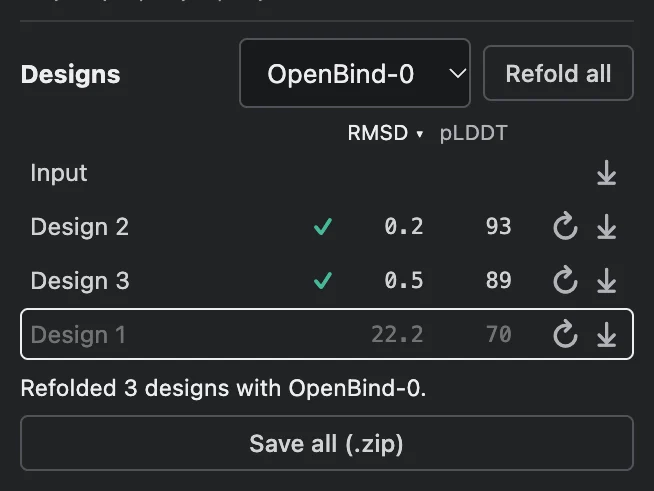
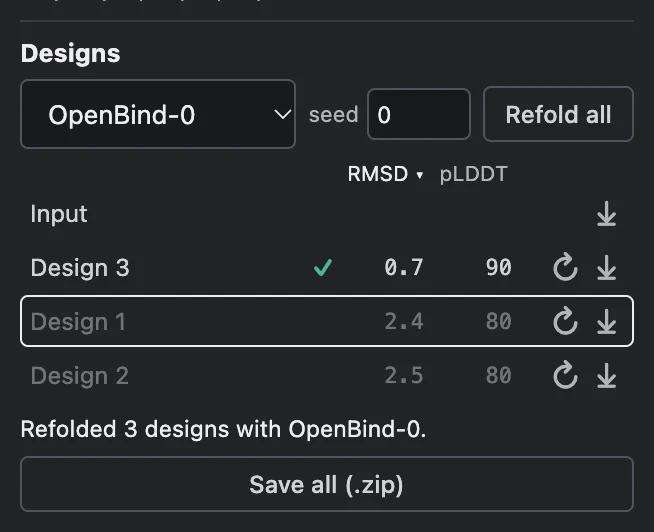
Refold seed: another seed samples the fold again; Refold all skips only refolds with the same model and seed

diff --git a/web/app.js b/web/app.js
@@ -566,6 +566,7 @@ class Rfd4pStudioApp {
       downloadAllBtn: document.getElementById('download-all-btn'),
       refoldBox: document.getElementById('rfd4p-refold'),
       refoldModel: document.getElementById('rfd4p-refold-model'),
+      refoldSeed: document.getElementById('rfd4p-refold-seed'),
       refoldBtn: document.getElementById('rfd4p-refold-btn'),
       refoldResult: document.getElementById('rfd4p-refold-result'),
       refoldTerms: document.getElementById('rfd4p-refold-terms'),
@@ -1289,11 +1290,13 @@ class Rfd4pStudioApp {
     const model = await this._agreeRefoldTerms(this.els.refoldModel?.value ?? 'af3');
     if (!model) return;
     const name = REFOLD_MODELS[model] ?? model;
+    const seed = Math.max(0, Number.parseInt(this.els.refoldSeed?.value ?? '0', 10) || 0);
     const all = (this.runs ?? []).flatMap((r) => r.designs);
-    const todo = (sids ?? all.filter((sid) => !this.generatedViews.get(sid)?.refolds?.some((r) => r.model === model)))
+    // Refold all skips designs already refolded with this model and this seed: a new seed samples them again.
+    const todo = (sids ?? all.filter((sid) => !this.generatedViews.get(sid)?.refolds?.some((r) => r.model === model && (r.seed ?? 0) === seed)))
       .filter((sid) => this.generatedViews.get(sid)?.pdb);
     if (!todo.length) {
-      this._setRefoldStatus(`Every design is refolded with ${name}.`);
+      this._setRefoldStatus(`Every design is refolded with ${name}, seed ${seed}.`);
       return;
     }
     const abort = new AbortController();
@@ -1326,7 +1329,7 @@ class Rfd4pStudioApp {
         this._renderDesigns();
         const tag = todo.length > 1 ? ` (${k + 1} of ${todo.length})` : '';
         this._setRefoldStatus(`Refolding Design ${view.designIndex} with ${name}${tag}…`);
-        const ok = await this._refoldOne(sid, model, abort, lf,
+        const ok = await this._refoldOne(sid, model, seed, abort, lf,
           (text) => this._setRefoldStatus(`Design ${view.designIndex}${tag}: ${text}`));
         if (ok) done += 1;
         else if (!abort.signal.aborted) failed += 1;
@@ -1348,12 +1351,12 @@ class Rfd4pStudioApp {
   }
 
   /** One design's refold: scored, kept for "Save all", and drawn over the design. False if it failed. */
-  async _refoldOne(sid, model, abort, lf, status) {
+  async _refoldOne(sid, model, seed, abort, lf, status) {
     const view = this.generatedViews.get(sid);
     const name = REFOLD_MODELS[model] ?? model;
     try {
       const result = await lf.refoldDesign({
-        pdb: view.pdb, chain: view.designedChains, model, device: this.gpuDevice, seed: 0, signal: abort.signal,
+        pdb: view.pdb, chain: view.designedChains, model, device: this.gpuDevice, seed, signal: abort.signal,
         partial: view.partialTemplates ?? [],
         status: (text) => status(text.replace(/^refolding with \S+( · )?/, '') || `refolding with ${name}`),
       });
@@ -1361,7 +1364,7 @@ class Rfd4pStudioApp {
       view.pass = passes(view.metrics, view.kind);
       view.refoldText = describeRefold(model, result, view.designedChains, view.partialTemplates ?? []);
       (view.refolds ??= []).push({
-        model, pdb: result.refold, cif: pdbToCif(result.refold), rmsd: result.rmsd, confidence: result.confidence,
+        model, seed, pdb: result.refold, cif: pdbToCif(result.refold), rmsd: result.rmsd, confidence: result.confidence,
         templated: result.templated, partial: result.partial, text: view.refoldText, metrics: view.metrics, pass: view.pass,
       });
       view.refoldError = false;

diff --git a/index.html b/index.html
@@ -10,7 +10,7 @@
     <!-- This site serves the Studio bundle itself; its offline cache would pin stale assets on Pages. -->
     <meta name="atomworks-studio-service-worker" content="off" />
     <script src="https://cdnjs.cloudflare.com/ajax/libs/jszip/3.10.1/jszip.min.js"></script>
-    <link rel="stylesheet" href="./web/styles.css?v=8c661a7b57" />
+    <link rel="stylesheet" href="./web/styles.css?v=f42ef4b4a9" />
     <!-- app.js first: its import of studio-api.js installs the /api/* fetch interceptor the Studio bundle boots against. -->
     <!-- module-versions:start (tools/stamp-modules.mjs) -->
     <script type="importmap">
@@ -38,14 +38,14 @@
           "./shared/rfd4p/presets.js": "./shared/rfd4p/presets.js?v=8db26644f7",
           "./shared/rfd4p/safetensors.js": "./shared/rfd4p/safetensors.js?v=816ee6d627",
           "./shared/rfd4p/vendor/fzstd.js": "./shared/rfd4p/vendor/fzstd.js?v=e6cdba40d4",
-          "./web/app.js": "./web/app.js?v=55d6e86c4b",
+          "./web/app.js": "./web/app.js?v=fbb9b892c5",
           "./web/design-panel.js": "./web/design-panel.js?v=59813db912",
           "./web/design-spec.js": "./web/design-spec.js?v=693bf27a92",
           "./web/guide-dialog.js": "./web/guide-dialog.js?v=df4c3ca412",
           "./web/ligand-ccd.js": "./web/ligand-ccd.js?v=b937ddbebf",
           "./web/localfold.js": "./web/localfold.js?v=8b16694f7b",
           "./web/refold-view.js": "./web/refold-view.js?v=2319c8a960",
-          "./web/results-zip.js": "./web/results-zip.js?v=68807b596f",
+          "./web/results-zip.js": "./web/results-zip.js?v=6336da7de0",
           "./web/studio-api.js": "./web/studio-api.js?v=0c131a07ce",
           "./web/vendor/py2dmol-ss.js": "./web/vendor/py2dmol-ss.js?v=f2ede21309",
           "./webgpu/index.js": "./webgpu/index.js?v=2aaa227e72",
@@ -59,7 +59,7 @@
       }
     </script>
     <!-- module-versions:end -->
-    <script type="module" src="./web/app.js?v=55d6e86c4b"></script>
+    <script type="module" src="./web/app.js?v=fbb9b892c5"></script>
     <script type="module" crossorigin src="./assets/index-D56mv6bn.js"></script>
     <link rel="stylesheet" crossorigin href="./assets/index-CTn3vkIg.css">
   </head>
@@ -187,6 +187,9 @@
                             <option value="af3" selected>AlphaFold 3</option>
                             <option value="openbind0">OpenBind-0</option>
                         </select>
+                        <label class="rfd4p-refold-seed" title="The refold model's seed: another seed, another sample of the fold">seed
+                            <input id="rfd4p-refold-seed" type="number" min="0" max="4294967295" step="1" value="0" aria-label="Refold seed" />
+                        </label>
                         <button id="rfd4p-refold-btn" class="secondary compact" type="button"
                                 title="Fold each design's sequence again with a structure prediction model and score it">Refold all</button>
                     </div>

diff --git a/web/results-zip.js b/web/results-zip.js
@@ -34,6 +34,7 @@ function refoldSummary(r) {
   return {
     model: r.model,
     model_name: REFOLD_MODELS[r.model] ?? r.model,
+    seed: r.seed ?? 0,
     rmsd_designed_chain: round(r.rmsd, 3),
     rmsd_on_target: round(r.metrics?.placedRmsd, 3),
     plddt: round(c.meanPlddt, 2),
@@ -104,7 +105,7 @@ export function resultsFiles({ input, designs, generatedAt = new Date().toISOStr
     if (refolds.length === 0) rows.push(base);
     for (const r of refolds) {
       rows.push({
-        ...base, refold_model: r.model, rmsd_designed_chain: r.rmsd_designed_chain, rmsd_on_target: r.rmsd_on_target,
+        ...base, refold_model: r.model, refold_seed: r.seed, rmsd_designed_chain: r.rmsd_designed_chain, rmsd_on_target: r.rmsd_on_target,
         plddt: r.plddt, ptm: r.ptm, iptm: r.iptm, designed_chain_ptm: r.designed_chain_ptm, min_ipae: r.min_ipae,
         passes: r.passes, templated_chains: r.templated_chains,
         partial_templates: r.partial_templates.map((p) => `${p.chain}:${p.residues}`),
@@ -112,7 +113,7 @@ export function resultsFiles({ input, designs, generatedAt = new Date().toISOStr
     }
   }
   files.push({ name: 'summary.json', text: `${JSON.stringify(summary, null, 2)}\n` });
-  const columns = ['design', 'seed', 'steps_run', 'designed_chains', 'sequences', 'refold_model', 'rmsd_designed_chain',
+  const columns = ['design', 'seed', 'steps_run', 'designed_chains', 'sequences', 'refold_model', 'refold_seed', 'rmsd_designed_chain',
     'rmsd_on_target', 'plddt', 'ptm', 'iptm', 'designed_chain_ptm', 'min_ipae', 'passes', 'templated_chains',
     'partial_templates'];
   files.push({

diff --git a/web/styles.css b/web/styles.css
@@ -1018,10 +1018,13 @@ body.rfd4p-building .rfd4p-piece-pop { visibility: hidden; }
 .rfd4p-starting #design-results, .rfd4p-starting #generation-status { display: none; }
 
 /* The Designs table (web/app.js _renderDesigns): one row a design, its refold's numbers, sortable by column. */
-.rfd4p-results-head { display: flex; align-items: center; justify-content: space-between; gap: 8px; min-width: 0; }
+/* "Designs", then the refold controls on a line of their own: model, seed, Refold all. */
+.rfd4p-results-head { display: flex; flex-wrap: wrap; align-items: center; gap: 6px 8px; min-width: 0; }
 .rfd4p-results-head > strong { font-size: 12.5px; }
-.rfd4p-results-head .rfd4p-refold-row { flex: 0 1 auto; }
-.rfd4p-results-head .rfd4p-refold-model { width: 116px; flex: none; }
+.rfd4p-results-head .rfd4p-refold-row { flex: 1 1 100%; }
+.rfd4p-results-head .rfd4p-refold-model { flex: 1 1 auto; min-width: 0; }
+.rfd4p-refold-seed { display: flex; align-items: center; gap: 4px; margin: 0; font-size: 11px; color: var(--text-muted, #b1b3b9); }
+.rfd4p-refold-seed input { width: 52px; height: 26px; padding: 2px 4px; font-size: 11.5px; }
 .rfd4p-designs { display: grid; gap: 1px; font-size: 11.5px; }
 .rfd4p-design-head,
 .rfd4p-design-row { display: grid; align-items: center; column-gap: 4px; padding: 0 4px; }

diff --git a/help/index.html b/help/index.html
@@ -167,7 +167,8 @@
     <code>Run 1 · seeds …</code>; a different input starts the list over.</p>
   <ul>
     <li><span class="ui">Refold all</span> folds each design's sequence again with AlphaFold 3 or OpenBind-0 and scores how well it comes
-      back. <span class="ui">↻</span> refolds one design; <span class="ui">⤓</span> downloads it.</li>
+      back. <span class="ui">↻</span> refolds one design; <span class="ui">⤓</span> downloads it. Change the
+      <span class="ui">seed</span> to sample another fold: Refold all then redoes every design with the new seed.</li>
     <li>Click a column head to sort by it. By default, designs that pass come first, then the rest by the job's main number.</li>
     <li><span class="ui">Save all (.zip)</span>: the input, every design with its trajectory, every refold, and the table as
       <code>summary.csv</code>.</li>

diff --git a/test/results-zip.test.js b/test/results-zip.test.js
@@ -38,7 +38,7 @@ test('resultsFiles packages input, designs, trajectories, every refold and a sum
   const csv = files.find((f) => f.name === 'summary.csv').text.trim().split('\n');
   assert.equal(csv.length, 1 + 3 + 1);
   // no metrics on these refolds: RMSD on target, designed-chain pTM, min iPAE and the verdict are left empty
-  assert.ok(csv[1].startsWith('1,7,50,B,A:MK B:G,af3,0.5,,80.12,0.8,0.61,,,,A,H:109'));
+  assert.ok(csv[1].startsWith('1,7,50,B,A:MK B:G,af3,0,0.5,,80.12,0.8,0.61,,,,A,H:109'), 'refold seed 0 when none was given');
   assert.ok(csv[0].includes('rmsd_on_target') && csv[0].includes('min_ipae') && csv[0].includes('passes'));
   assert.match(files.find((f) => f.name === 'README.txt').text, /WEIGHTS_TERMS_OF_USE/);
   assert.ok(!names.some((n) => n.endsWith('.pdb')));

diff --git a/web/page/card.html b/web/page/card.html
@@ -121,6 +121,9 @@
                             <option value="af3" selected>AlphaFold 3</option>
                             <option value="openbind0">OpenBind-0</option>
                         </select>
+                        <label class="rfd4p-refold-seed" title="The refold model's seed: another seed, another sample of the fold">seed
+                            <input id="rfd4p-refold-seed" type="number" min="0" max="4294967295" step="1" value="0" aria-label="Refold seed" />
+                        </label>
                         <button id="rfd4p-refold-btn" class="secondary compact" type="button"
                                 title="Fold each design's sequence again with a structure prediction model and score it">Refold all</button>
                     </div>

diff --git a/AGENTS.md b/AGENTS.md
@@ -24,7 +24,7 @@ Operational guide for coding agents working in `rfd4p` (WebGPU implementation of
    - `web/design-spec.js` (pure: task, chain roles, lengths and contig read from a document's conditions; tested in `test/design-spec.test.js`) and `web/design-panel.js` (start screen, Design panel, guided set-ups, simple/advanced switch). The panel lists each chain piece by piece in contig order (`designSpec(...).chains[].pieces`): `kept` (with a keep mode from `KEEP_MODES`: all, sequence, backbone, side chains, shape only; `anywhere` when unindexed; `source` when a set-up renumbered it), `designed` (in place) and `new` (a length range). Chains are grouped by where their coordinates come from (`_sourceGroups`: "PDB 1QJG", "PDB 5O45 chain A", "Nanobody (VHH) example"), one muted caption per source; clicking a caption opens the + pdb form to replace that source's chains; chains are listed in the job's order (the sequence bar's, which is the order they were added), chains made here (+ seq, + lig) uncaptioned in place. Each piece is a sub-card in its chain (chain letter on the left; the chain's × there once it has more than one item), residues (or a new piece's length) on the left and its state on the right ("A17–131 · fixed · 3 hotspots", "H99–109 · designed", "50–120 · new"), its own × to remove it; a "+" between sub-cards (not next to new residues) inserts 5–10 new residues there. Every option in the popups is fixed or free (free: the model decides; the internal values stay 'designed' and 'anywhere'), and every list ends with "free", Shape, Exposure, Interaction and Fold included; a ligand's pose is its Structure too. A residue popup (a sub-card's, or residues picked in the viewer or the sequence bar) shows, in front, its residue range (a sub-card's), Structure (fixed, rigid, free) with the Atoms it holds (all, backbone, side chains, or named: "CG, OD1"), Sequence (fixed, free) and Position in chain (fixed, free: an unindexed residue), with Structure and Sequence both free Length in Position's place, and a sub-card's Hotspots, the rest under More (`_moreFold`: Shape, Exposure, Interaction, and a sub-card's Keep only); there are no one-click buttons (they set four things at once and could not say "structure fixed, sequence free"). A sub-card's click also selects its residues in Studio while its popup is open (`_selectFromCard`, not the viewer's popup). A sub-card's Residues take one range or several ("1–40, 60–115"); once narrowed, Rest says what happens to the piece's residues outside them (removed, the default; free; unchanged, for changing part of a piece), the gaps between ranges are free, and Between gives them a length range, turning each into new residues (so a fetched chain is cut to a domain, or to two regions with a variable linker, in one popup); a Length other than the residue count turns them into new residues (`/segments/replace`), and the document remembers the residues they replaced (`segmentOrigins`, this page only; `segmentOrigin`, `restoreSegment`, `/segments/restore`; `test/segment-restore.test.js`): the new-residues popup then shows "was 7" beside Length and a Structure and Sequence, and the old count, or a fixed or rigid Structure or a fixed Sequence, brings them back in place with their coordinates and conditions, in one Undo; with partial diffusion ticked, its warning about new residues offers the same for all of them ("Back to the residues they replaced"), since partial diffusion starts from coordinates. A piece of a loaded chain has a crop bar under its Residues (`_cropBar`): the chain as it was loaded (`chainSources`, kept by a plain structure's `StudioDoc` and carried by `combine` and a chain rename; `sourceResidues`), the piece's ranges on it, the chain's other residues muted, a handle at each end; dragging in crops (Rest), dragging out brings residues back, up to the neighbouring piece and never past new residues (`restoreFromSource`, `/residues/restore`: as loaded, then given the popup's settings, those in gaps free). It only edits the Residues field, so typing a range past the piece does the same. As the ranges change (dragged or typed), the structure previews them (`_previewCut`): residues to be cut nearly vanish (`setHighlight('cut', …)`), those to be freed fade as free ones do, and only the residues kept stay selected; closing the popup clears it. Opening a sub-card's popup also brings its residues to the middle of the view, the zoom kept (`centerOn`, fork 12c2b78). During a run and on a finished design, the held coordinates of a motif are drawn as a grey reference (`buildMotifOverlayAtoms`, `motifSideChainAtoms`): residues placed anywhere always, residues held in place only when they are a quarter of their chain or less (`isSmallMotif`: 1QJG's three, not a kept domain extended by new residues, which would only be drawn twice). Residues the model rebuilds (no atom held, not rigid) are faded in the input structure (`setHighlight('free', …, { transparency })`, fork f7a02ee), except with partial diffusion ticked, where they are its starting point. Hotspots (the chain's, from any of its pieces; a residue may name its atoms, "A56(CG,OH)", `parseResidueList`) and, under More, Keep only (the motif set-up, `/segments/scaffold`; the residues are kept in the order typed, "A38, A14, A99" reorders the motif and renumbers the chain as AtomWorks does, `_orderMotif`, each kept residue keeping its source ("A38", `annotation_src-component_1_atom`, display only: the pipeline rewrites it) so the card still names it by the entry; the kept residues take the popup's properties, so trimming an antibody chain and making it "rigid" is one popup). "Rigid" is one rigid group per source structure (`/internal-coords` `group_id`, `_rigidGroup(chain)`: chains from the same entry share a body), so an antibody's heavy and light frameworks keep their pairing and move as one, as upstream's current antibody example (Studio 0.0.6, MZB1/adalimumab Fv) and the model repo's VHH inputs are set (the Oct 19 example the demo Space ships had them as two bodies, since replaced), a framework split by CDRs moves as one, and chains from different entries move apart, and its saved targets are cleared (`/internal-coords/clear-targets`): the pipeline centres the body and turns it at random when the job is built (`materializeInternalCoords`), as AtomWorks does and the bundled examples are saved. A residue fixed "anywhere" with only some atoms held keeps only those atoms' coordinates, held atoms first in the residue (`/coordinates/clear`; a token is read from its first atom), as an enzyme benchmark's catalytic tips are given. Residues can be brought back from their source entry next to their neighbours (`/residues/insert`, `insertResiduesFrom`: one Undo, peptide and new-residue bonds rebuilt, an ordered motif's chain renumbered; `test/residue-insert.test.js`); nothing in the card uses it yet (a residue strip did, and was taken out for now). The chain letter opens the chain's popup: its name (`/chains`), its place in the job (`/chains/order`), which the model reads (chain and molecule ids, noise draws), and a fold for it (CATH, `cath_label`, `_foldField`: named folds such as ferredoxin-like 3.30.70, Rossmann-like 3.40.50, helix bundle 1.10, or any code; a new chain's is set on its new residues, which each take it; also in the new-residues popup, where a new chain is laid out). Superposition (`superimposeCoords3D`) is a rotation, never a reflection (`test/handedness.test.js`): it used to mirror whenever its eigenvectors came out left-handed, and a design with nothing held in place, aligned onto its first (noise) frame, was then shown as its mirror image, every helix left-handed, about half the time; the model's own estimate was right-handed throughout. A residue placed anywhere is read against all its atoms (`heldAtomsOf`, `allHeavyNames`), since only its held atoms keep coordinates, so its row names them ("A250 CG, OD1 fixed · position free"); a glycine joins a named-atoms or side-chain run it sits in, and an interaction is asked of each residue's side chain, or its CA when it has none. Under More, residues can also be asked a Shape (secondary structure: helix, strand, loop), an Exposure (RASA: buried, intermediate, exposed) and an Interaction their side chains (or the atoms named) should make (H-bond donor/acceptor, salt bridge, π-stacking, π-cation, hydrophobic, metal-coordinating) (`_extraFields`); new residues take Shape and Exposure. These were Advanced-editor only; pieces split where they differ and rows name them ("A20–30 designed · helix"). Residues selected in the viewer or the sequence bar open a shorter popup for the selection (`_renderPop`): Structure and Sequence ("mixed" where the selected pieces differ, left as each piece has it), Length for one free stretch, Hotspot and Include checkboxes (unticked, the selection is taken out of the job on Apply) and a ligand's Structure, with Atoms, Position, Shape, Exposure and Interaction under More (a pick shows little at first), so fixed regions are grown, shrunk, freed or cut from the structure itself (a motif by hand: pick the residues around it, Structure and Sequence free, a Length); several pieces change in one edit (`_applyPieces`), one Undo. Ligands: Structure fixed or free, swap. New residues: Length, Shape, Exposure and the chain's Fold. More folds only four rows or more; fewer are shown as they are (`_moreFold`). Popups close with the × in their title (top right; a viewer pick's also lets go of the selection), Escape or a click outside, and move by their title bar (`_movable`): once moved, every popup opens where the last was left, kept on screen, until a reload (`popSpot`); Apply sits at the bottom, always in sight. A "+" sits between any two pieces and at both ends, new residues included, so a free chain is built as blocks of different lengths and shapes (20 helix · 6 loop · 20 strand). New residues inserted inside a chain do not renumber it: with no numbering gap the placeholder takes the residue before's number plus an insertion code (`insertSegment`, "40A"), and `realizeExpandableSegments` numbers past it, so the batch and the design are numbered exactly as the old renumber-the-rest rule made them (`test/insert-numbering.test.js`). A design therefore numbers residues after an insertion further along than the input; hotspots on designs are matched through each sample's batch atoms for that reason. A plain structure (PDB ID, optionally with the chains to keep, "1J79 A C E"; a file; "+ pdb") opens with everything fixed, without buffer ions (NA, CL, on top of AtomWorks' additive list) and with its ligands' formal charges from the CCD (RCSB entries list their components' atoms without charges, `componentsNeedingCcd`); a prepared document drops the file's text (`rawCif`), so its CIF, for the viewer and for a run, is the prepared one from the first frame (`StudioDoc`, rcsb preset; `test/fetch-defaults.test.js`), so a set-up starts from what was loaded and marks what to design; Keep only takes the popup's Structure, Atoms and Position (CG, OD1 + anywhere is an enzyme site), and ticking partial diffusion with nothing designed frees every chain. "Blueprint" draws a ferredoxin-like fold as blocks (β 6 · loop 3 · α 14 · loop 3 · β 6 · loop 3 · β 6 · loop 3 · α 14 · loop 3 · β 6) from the bundled empty chain (`start`, `blocks` steps; no download); a design follows it (helix blocks Cα i→i+3 5.1 Å and right-handed, strands 10 Å). The start screen starts a job from its parts with the design view's own row, + seq (a free chain of 60–100, from the bundled empty chain), + pdb (the PDB ID / file form) and + lig (a ligand by its code), each opening a new document (`_startNew`), and under it the Examples (a heading, not a question: nothing there has to be picked). Start-screen examples are recipes (`TASKS[].recipe`): each fetches its PDB entry (5O45, 1XVA, 1QJG, 1J79, 1N8Z, 4Z18 + 3EAK, 2KL8, in label numbering; an entry's chains come from its first biological assembly that has them, `_openEntry`) and reproduces the bundled Studio example of the same name in everything the model reads (batch features compared tensor by tensor; the motif is identical, the antibody too but for two deliberate changes, its heavy and light chains one rigid body and their fold Ig-like (CATH 2.60.40, recipe `{ chain, fold }`), as upstream's examples now are; both 2KL8 examples keep residues 1–79 (all of it but the His tag), where the bundled file drops 8–27, a bug in it; the rest differ only where the bundled file's coordinates did not come from the deposited entry: the binder's rebuilt side chains, the SAM conformer, the nanobody framework's saved orientation, and 0.001 Å rounding in the enzyme) and builds the set-up with the card's own controls in a session Studio does not show (`_buildRecipe`: `buildSession`, whose edits go straight to `handleStudioApiRequest`, so the viewer is not redrawn per step; popups hidden by `body.rfd4p-building`), then opens it once, finished, with no Undo history; offline, the bundled Studio example opens instead ("Protein from scratch" always does). Source captions read "PDB 5O45 · A" (entry and its chains in the job; the entry's `_struct.title` when pointed at). Designs and live frames are put back in the input's frame (the pipeline centres the conditioned coordinates for the model and records `center_shift`; `processSampleToAtoms` adds it back after aligning), so a fetched target does not jump when a run starts. During a run the hotspot highlight follows the job's numbering (`app.liveHotspotKeys`, res_id past any new residues), since live frames are numbered that way. Otherwise hotspots are highlighted in the viewer by `auth_seq_id`, which is how the document's CIF numbers residues for Mol* (a fetched entry keeps its authors' numbering there; `res_id` is the label numbering). There are no separate guided set-ups; partial diffusion is a line under the run settings' More settings, which open whenever it is turned on, so it is never on out of sight (one control: the checkbox and its noise %, 40% by default, `partial_trajectory_fraction_steps` 0.4 as upstream's Space runs its partial-diffusion example). A job whose every chain keeps its backbone with its sequence free (the card's "Redesign sequence", `task.key === 'inverse'`) runs the inverse-folding sampler (`resampled_forward_marginal`), as the Space does for that task (`generation=inverse_folding`): the backbone comes back as given (Cα within 0.02 Å), only sequence and side chains sampled. The encoder treats an atom without coordinates (a side chain an entry did not resolve) as absent (`encoderSeqFeatures`), or its NaN reached every latent and partial diffusion of such an entry (6MRR) gave a design with no atoms. Hotspots are a chip on a kept piece (`parseResidueList` / `formatResidueList`). Ligands are added ("+ lig") or swapped (a ligand's Edit menu) by their CCD code: `web/ligand-ccd.js` turns the dictionary entry's ideal coordinates into a one-residue mmCIF, merged in with its pose free. "+ seq", "+ pdb" and "+ lig" add a designed chain, chains from a PDB entry or file, or a ligand; merged in as kept chains through `/combine` (a source caption replaces that source instead), so an example is edited the same way a set-up is built from scratch. The panel edits documents only through `window.__rfd4pMutate`, so Undo and Studio refreshes work as for Studio's own edits.
    - AtomWorks Studio is **not vendored**. `studio.json` pins the release; `npm run build:studio` downloads that bundle, verifies its sha256, copies it into `assets/` and composes `index.html` from Studio's own page plus the two fragments this repo owns (`web/page/head.html`, `web/page/card.html`). Never hand-edit `assets/` or `index.html` — both are build output. Live frames, overlays, sessions, edits, the selection, chain colours and live mode go through Studio's documented embedding API, `window.atomworksStudio`. To try an unreleased Studio: `npm run build:studio -- --from <path-to-bundle>`. **Right now the site runs an unreleased Studio**: `studio.json` `override` names the commit (sokrypton/atomworks-studio `live-frame-cartoon`: cartoon overlays, RosettaCommons/atomworks-studio#29, live frames drawn as cartoon plus ligands, `setHighlight`, which the panel uses to colour hotspots in the target's own cartoon, Show/Hide sequence in the viewer toolbar with no sequence-dock heading, `setSelection`, and residue picking by default with a clicked residue shown on its own: Mol*'s focus without its 5 Å surroundings, interactions or camera jump, and following the selection, so deselecting leaves no sticks behind (whole residues selected are only outlined on the cartoon; atoms picked show their residues in sticks, c17a919), and `closeDocument`, which Clear uses to empty the viewer and the sequence without a reload or a confirmation, keeping the session for Back, and `setHighlight` with a `transparency`, which fades residues instead of colouring them, and `centerOn`, which pans the view to atoms), and `build:studio` refuses a plain release rebuild until `override` is removed after a release contains it.
    - Guide: `help/index.html` is this site's guide (start, the card, pieces, picking, chains, colours, running, Designs, examples, words), a page of its own and, through `web/guide-dialog.js`, a popup over the designer (the card's Guide button and the footer's Guide link); Studio's own guide stays at `guide/`, linked from it. Its screenshots (`help/img/*.webp`) come from `node tools/guide-shots.mjs [scene]` (headless Chrome over its DevTools protocol, each scene set up through the page; `designs` runs the model and an OpenBind-0 refold). Change the guide, and retake the shots, when the interface changes.
-   - Designs (`web/app.js` `_renderDesigns`): every design of the runs on the current input is a row of one table (Input first; each new run's designs numbered on from the last, earlier runs kept and folded away under "Run n · seeds"; a different input starts over), each with ⟳ (refold it) and ⤓ (its CIF); clicking a row shows it. While a run goes, the Generate button is its progress (Stop · design k of n · step s/60, filling up) and the status line under it is for what is not progress. Refold all (or Stop) refolds every design not yet refolded with the chosen model, one after another, rows saying queued / refolding… and filling in: RMSD, pLDDT, and for an interface ipTM and min iPAE (`refoldMetrics`: the min iPAE from the refold's PAE, polymer tokens first in file order as LocalFold reads them, `polymerChains`; the RMSD of a binder or antibody is upstream's target-aligned one, from the refold's per-residue `deviations`, which LocalFold measures after fitting on every other chain). A ✓ marks designs that meet the model's own pass criteria (`PASS_CRITERIA`, from RFD4-Proteina `configs/metrics/pass_criteria`: monomer, binder, antibody; motif, enzyme and small-molecule jobs get numbers but no verdict, as they also need motif and ligand RMSDs not computed here), failing rows are greyed, and rows rank passing first by the job's first criterion (`rankKey`) until a column head is clicked. Save all (.zip) carries every run, with the same numbers in summary.csv (`web/results-zip.js`).
+   - Designs (`web/app.js` `_renderDesigns`): every design of the runs on the current input is a row of one table (Input first; each new run's designs numbered on from the last, earlier runs kept and folded away under "Run n · seeds"; a different input starts over), each with ⟳ (refold it) and ⤓ (its CIF); clicking a row shows it. While a run goes, the Generate button is its progress (Stop · design k of n · step s/60, filling up) and the status line under it is for what is not progress. Refold all (or Stop) refolds every design not yet refolded with the chosen model and seed (the refold's own seed, 0 by default; another seed samples the fold again, each refold keeping its seed for the zip), one after another, rows saying queued / refolding… and filling in: RMSD, pLDDT, and for an interface ipTM and min iPAE (`refoldMetrics`: the min iPAE from the refold's PAE, polymer tokens first in file order as LocalFold reads them, `polymerChains`; the RMSD of a binder or antibody is upstream's target-aligned one, from the refold's per-residue `deviations`, which LocalFold measures after fitting on every other chain). A ✓ marks designs that meet the model's own pass criteria (`PASS_CRITERIA`, from RFD4-Proteina `configs/metrics/pass_criteria`: monomer, binder, antibody; motif, enzyme and small-molecule jobs get numbers but no verdict, as they also need motif and ligand RMSDs not computed here), failing rows are greyed, and rows rank passing first by the job's first criterion (`rankKey`) until a column head is clicked. Save all (.zip) carries every run, with the same numbers in summary.csv (`web/results-zip.js`).
    - Refold (`web/refold-view.js`): LocalFold's `refoldDesign` refolds the design's sequence with AlphaFold 3 (the default) or OpenBind-0 (kept chains as templates), and the refold's designed chains are overlaid as a magenta backbone trace on the design (no separate refold view). That code is **vendored, not written here**: `localfold.json` pins a `sokrypton/localfold` commit, and `npm run sync:localfold [<commit>]` copies the import closure of its entries into `vendor/localfold-<commit>/` (the commit in the path is the cache-busting) and rewrites `web/localfold.js`. Never edit `vendor/`; fix LocalFold and re-sync. AlphaFold 3's parameters are Google DeepMind's (non-commercial, prohibited-use policy), so the page asks once per browser before using them and offers OpenBind-0 (Apache 2.0) instead.
    - Cache-busting: `index.html` carries an import map pinning every module under `web/`, `shared/`, `webgpu/`, `cpu/` to `?v=<content hash>` (plus the `app.js` / `styles.css` tags). Run `npm run stamp` after editing any of them (`build:studio` runs it too), or browsers can mix new and cached modules for up to 10 minutes after a deploy.
    - Chain colours come from Studio's shared palette, keyed by chain id; the design panel reads it through `window.atomworksStudio.chainColor`. The palette (fork) is cool colours only, thirteen of them: amber is the hotspots' (`--rfd4p-hotspot`) and magenta the refold's, so neither is ever a chain's, and H, L and T fall on three different colours. Selection is one look everywhere: an outline in the text colour, no tint (fork 912934c: Mol*'s select and hover marking in the foreground colour, white on black and near-black on white, hover fainter; the sequence bar's selected residues outlined, keeping their colours, a run of them one box, fork c8d0b8c), and a sub-card holding selected residues outlined the same (`_markSelected`), so chain colours, hotspots (amber), free (accent) and the fades all still show under a selection.
